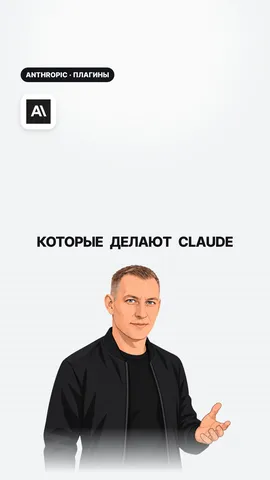
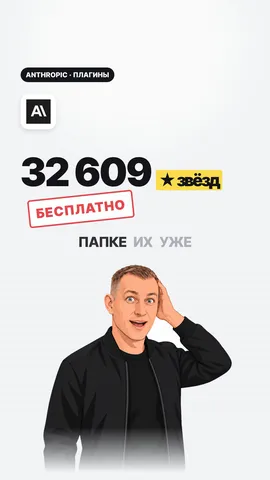
fix: карточки роликов ровно по верху, разделы переносом, обложка conv-02

diff --git a/style.css b/style.css
@@ -77,19 +77,20 @@ body.page .detail { display: block; }
 /* Ролики: обложка из самого ролика + «Внутри: …» простыми словами. */
 .strip { display: flex; gap: 10px; padding: 0 16px 4px; overflow-x: auto; scrollbar-width: none; scroll-snap-type: x mandatory; }
 .strip::-webkit-scrollbar { display: none; }
-.short { flex: none; width: 112px; scroll-snap-align: start; }
+/* карточка-кнопка: без этого кнопка ставит содержимое по центру, и короткая карточка сползает вниз (conv-01 рядом с conv-02) */
+.short { flex: none; width: 112px; scroll-snap-align: start; display: flex; flex-direction: column; justify-content: flex-start; align-self: flex-start; }
 .cover { display: block; width: 100%; aspect-ratio: 9 / 16; border-radius: 14px; background: var(--bg2); object-fit: cover; }
 .strip .cover { aspect-ratio: 3 / 4; object-position: top; }
 .cover-text { display: flex; align-items: center; padding: 10px; font: 800 14px/1.05 var(--display); text-transform: uppercase; overflow: hidden; }
-.inside { font-size: 12px; line-height: 1.3; margin-top: 6px; }
+.inside { font-size: 12px; line-height: 1.3; margin-top: 6px; display: -webkit-box; -webkit-box-orient: vertical; -webkit-line-clamp: 3; line-clamp: 3; overflow: hidden; }
 .inside span { color: var(--hint); }
 .grid-shorts { display: grid; grid-template-columns: repeat(auto-fill, minmax(150px, 1fr)); gap: 16px 12px; padding: 0 16px; }
 .grid-shorts .short { width: auto; }
 .grid-shorts .inside { font-size: 13px; }
 
 /* Разделы чипами на телефоне. */
-.chips { display: flex; gap: 6px; padding: 16px 16px 0; overflow-x: auto; scrollbar-width: none; }
-.chips::-webkit-scrollbar { display: none; }
+/* разделы переносятся на новую строку: прокрутку вбок мышью в узком окне Telegram на ПК не сделать (владелец 25.10.2026) */
+.chips { display: flex; flex-wrap: wrap; gap: 6px; padding: 16px 16px 0; }
 .chip { flex: none; padding: 7px 12px; border-radius: 99px; background: var(--bg2); font-size: 14px; white-space: nowrap; }
 .chip[aria-pressed="true"] { background: var(--pri); color: var(--on-pri); }
 
@@ -156,10 +157,11 @@ body.page .detail { display: block; }
   .chips { display: none; }
   .detail, body.page .detail { display: block; border-left: 1px solid var(--line); overflow-y: auto; }
   .detail .back { display: none; }
-  .strip { display: grid; grid-template-columns: repeat(4, minmax(0, 1fr)); gap: 14px; overflow: visible; }
-  .strip .short { width: auto; display: flex; gap: 10px; }
+  /* колонка не уже 260 px: в четырёх колонках тексту рядом с обложкой оставалось ~40 px */
+  .strip { display: grid; grid-template-columns: repeat(auto-fill, minmax(260px, 1fr)); gap: 14px; overflow: visible; }
+  .strip .short { width: auto; display: flex; flex-direction: row; gap: 10px; }
   .strip .cover { width: 100px; flex: none; aspect-ratio: 9 / 16; }
-  .strip .inside { margin-top: 0; font-size: 13px; }
+  .strip .inside { margin-top: 0; font-size: 13px; display: block; -webkit-line-clamp: unset; line-clamp: none; }
   .tools { display: grid; grid-template-columns: 1fr 1fr; gap: 10px; padding: 0 16px; }
   .tools .row { border: 1px solid var(--line); border-radius: 14px; padding: 12px; }
   .detail .tools { grid-template-columns: 1fr; }
